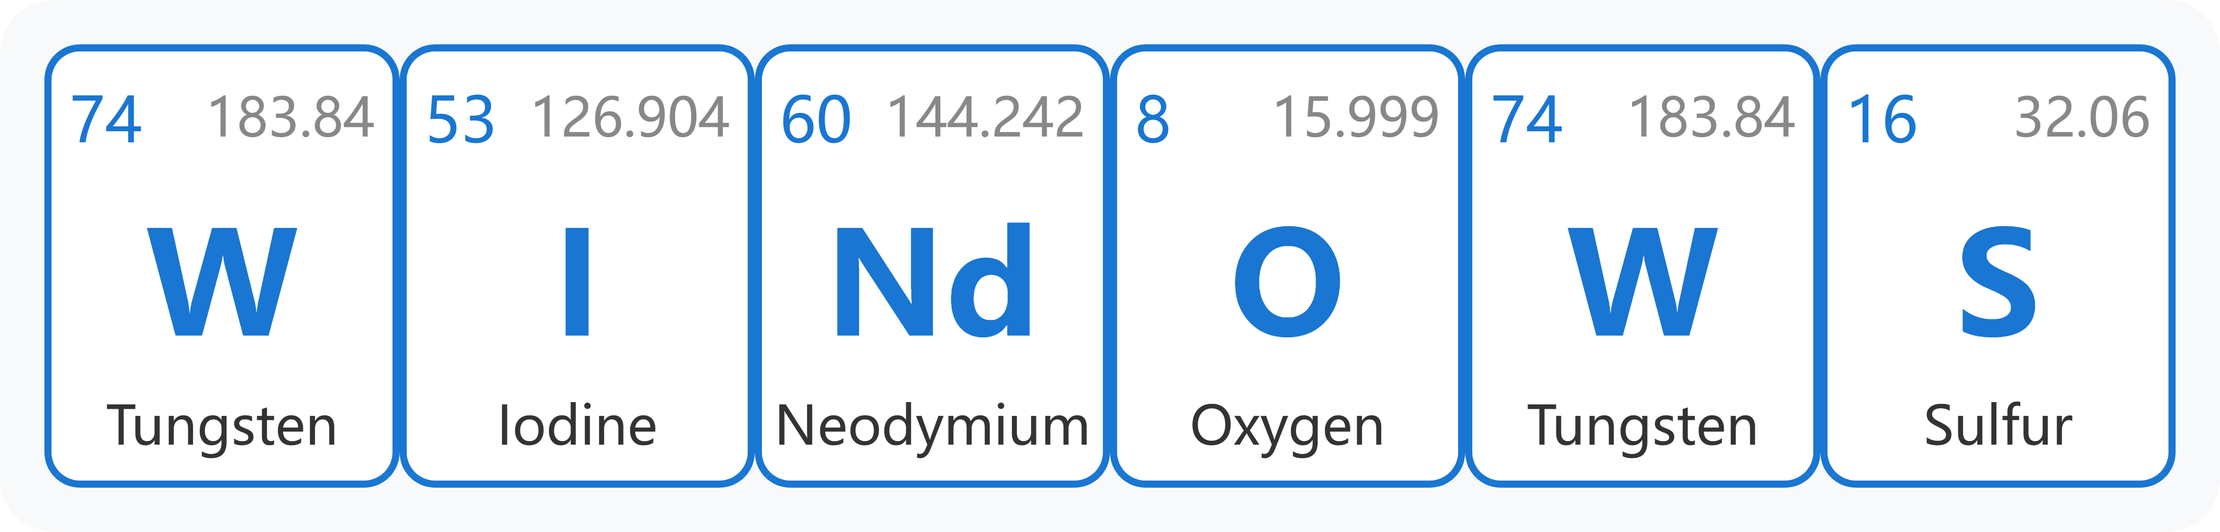
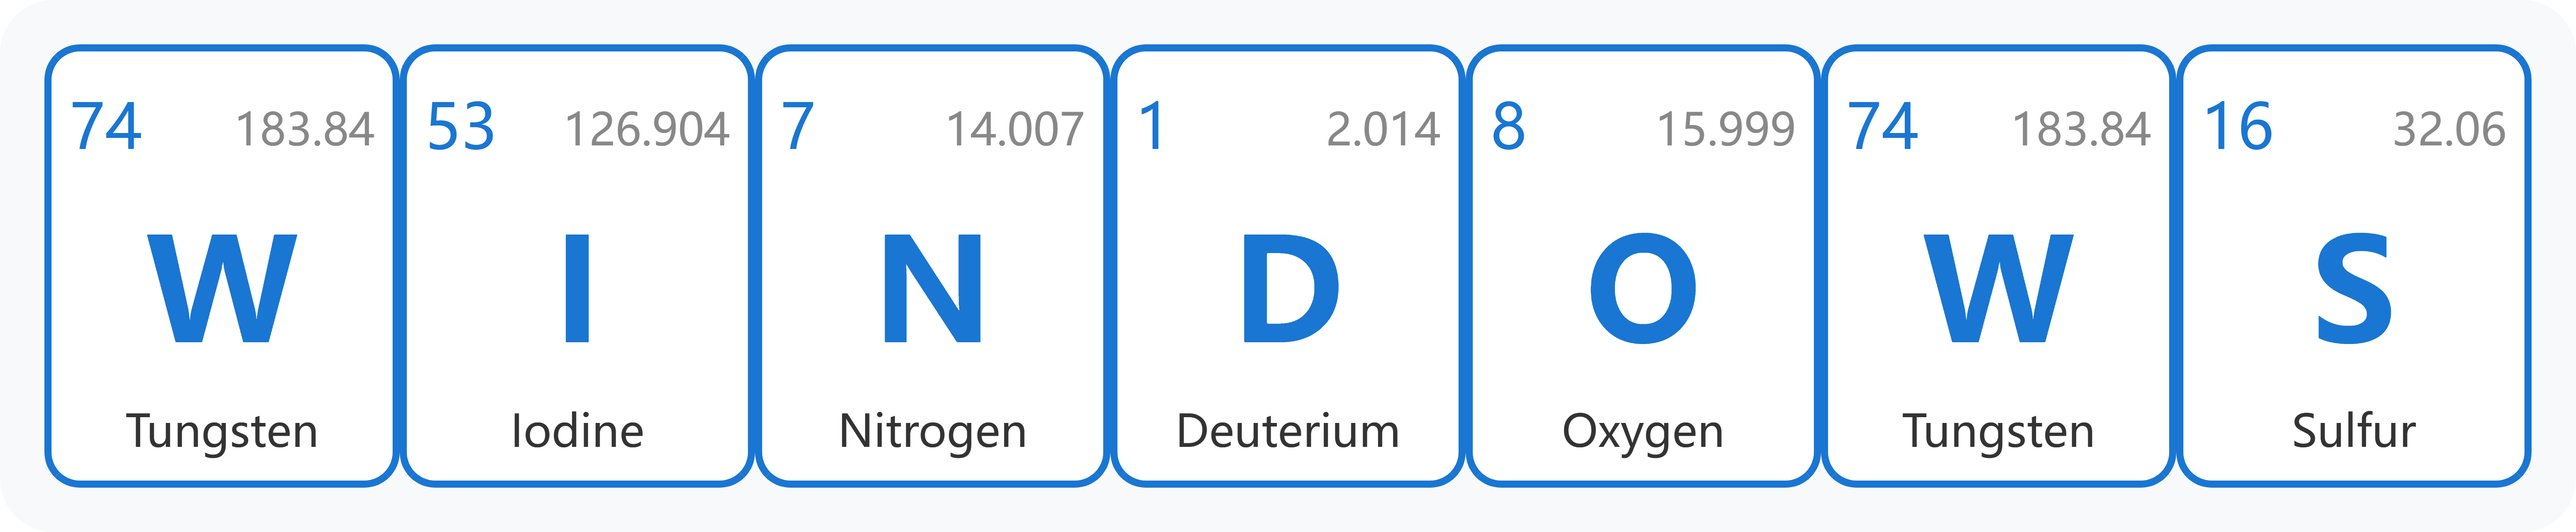
搜索优先匹配单个字母 & update examples

Changed region(s): [[0.0, 0.0617, 0.9984, 0.925]]

diff --git a/docs/examples/search.html b/docs/examples/search.html
@@ -143,6 +143,22 @@
                 return { symbols: [], numbers: [] };
             }
 
+            const oneLetterSymbol = word.substring(0, 1);
+            if (elementData[oneLetterSymbol]) {
+                const restOfWord = word.substring(1);
+                const result = findElementalSpelling(restOfWord);
+                if (result !== null) {
+                    const formattedSymbol = oneLetterSymbol.toUpperCase();
+                    const atomicNumber = elementData[oneLetterSymbol].number;
+                    const finalResult = {
+                        symbols: [formattedSymbol, ...result.symbols],
+                        numbers: [atomicNumber, ...result.numbers]
+                    };
+                    memo.set(word, finalResult);
+                    return finalResult;
+                }
+            }
+
             if (word.length >= 2) {
                 const twoLetterSymbol = word.substring(0, 2);
                 if (elementData[twoLetterSymbol]) {
@@ -161,21 +177,6 @@
                 }
             }
 
-            const oneLetterSymbol = word.substring(0, 1);
-            if (elementData[oneLetterSymbol]) {
-                const restOfWord = word.substring(1);
-                const result = findElementalSpelling(restOfWord);
-                if (result !== null) {
-                    const formattedSymbol = oneLetterSymbol.toUpperCase();
-                    const atomicNumber = elementData[oneLetterSymbol].number;
-                    const finalResult = {
-                        symbols: [formattedSymbol, ...result.symbols],
-                        numbers: [atomicNumber, ...result.numbers]
-                    };
-                    memo.set(word, finalResult);
-                    return finalResult;
-                }
-            }
             memo.set(word, null);
             return null;
         }

diff --git a/src/elements.ts b/src/elements.ts
@@ -128,4 +128,4 @@ export const elements: Element[] = [
   { symbol: "Og", name: "Oganesson", number: 118, mass: 294.000 }
 ]; // 无j,q
 
-export const customOrder: (number | string)[] = [59, 8, "D", 92, 6, "T"];
+export const customOrder: (number | string)[] = [74, 53, 19, 53];
